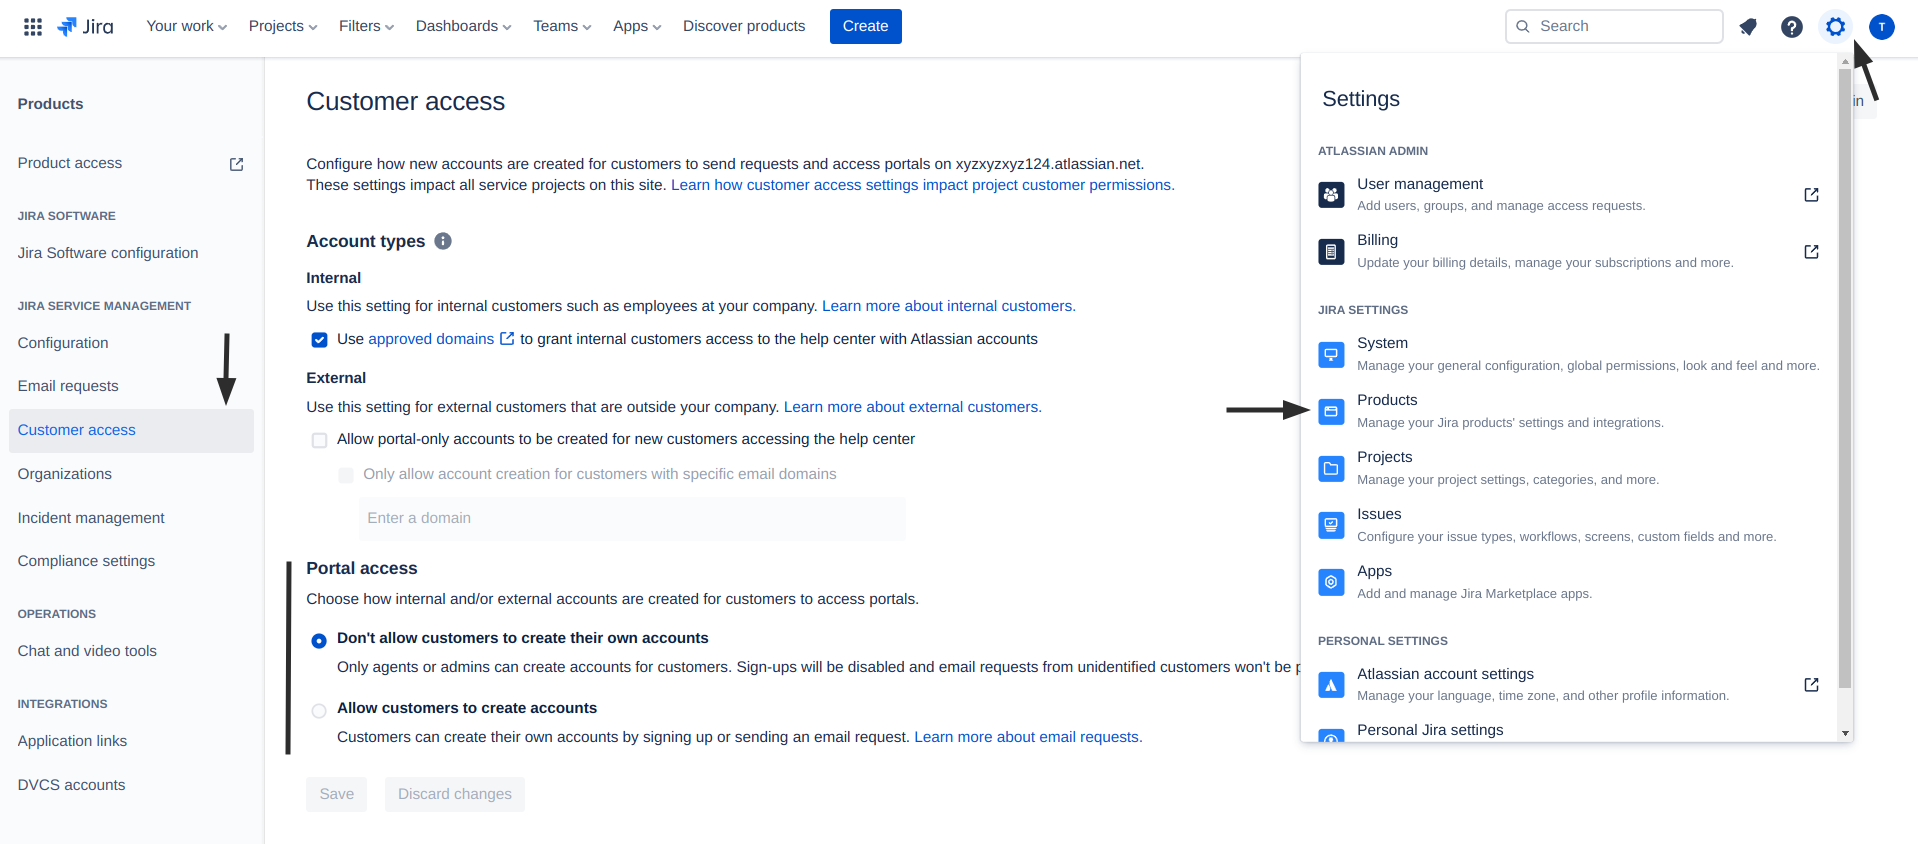
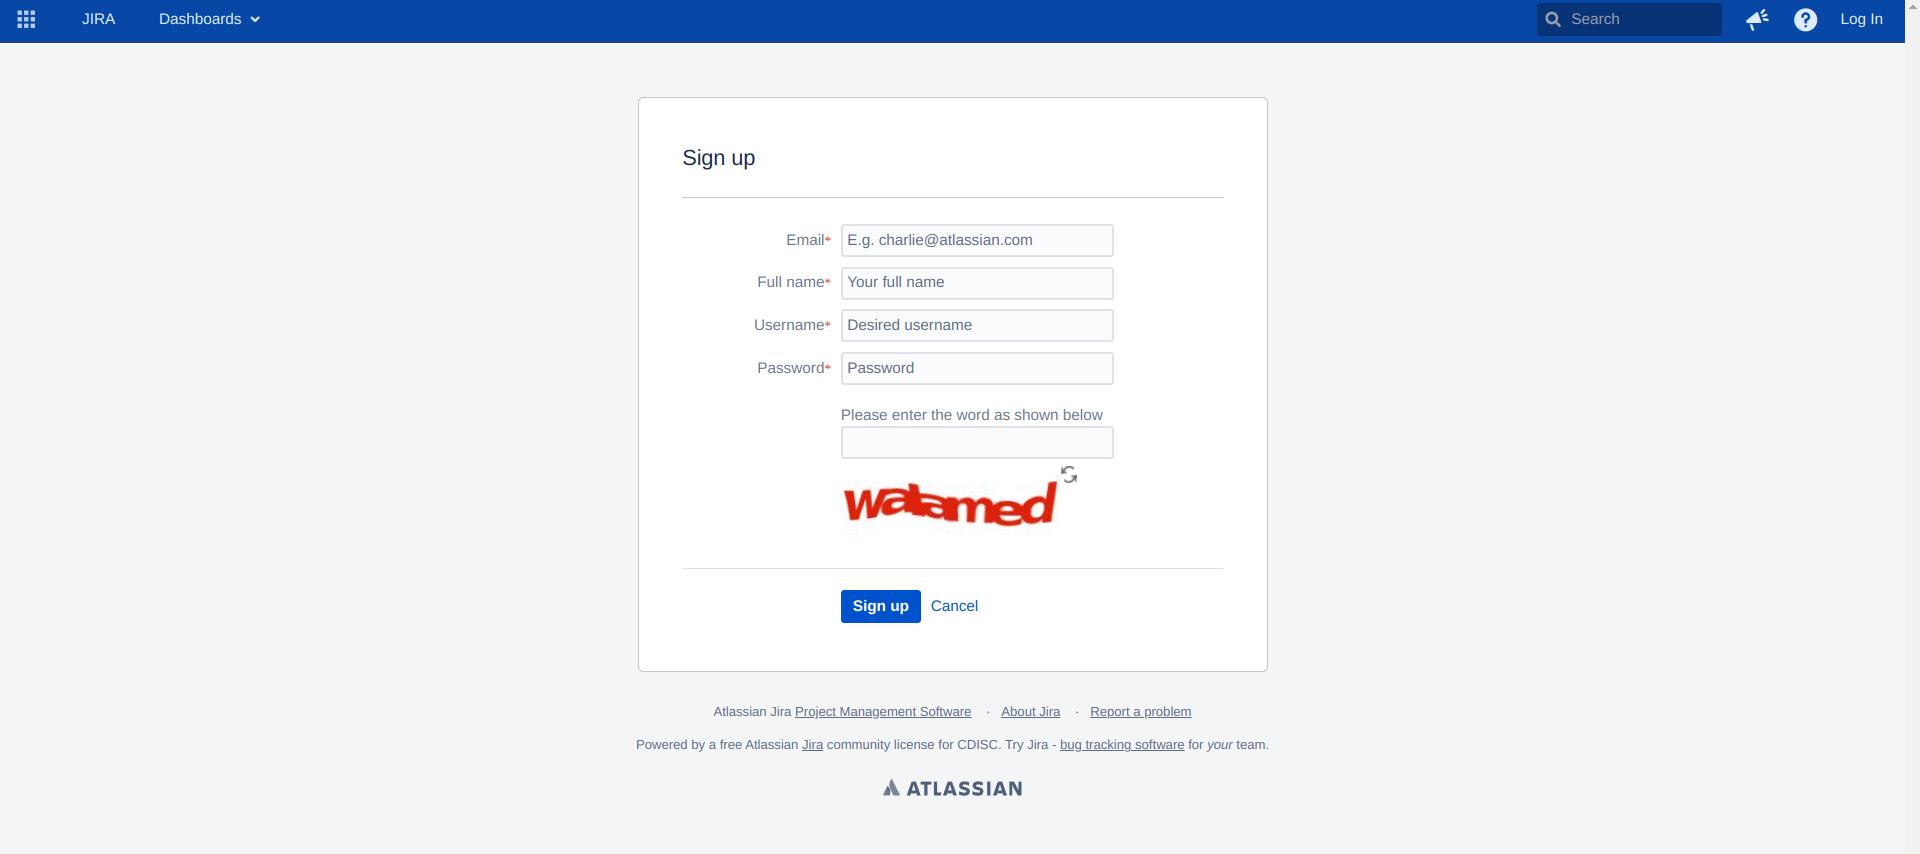
Added additional information + images to existing services

diff --git a/services/atlassian-jira/open-user-registration.md b/services/atlassian-jira/open-user-registration.md
@@ -12,6 +12,8 @@ You can cross-check if user registration is open for anyone by navigating to the
 /secure/Signup!default.jspa
 ```
 
+<figure><img src="../../.gitbook/assets/atlassian/jira/4.png" alt=""><figcaption></figcaption></figure>
+
 #### Remediation:
 
 Make sure to set the proper setting for new signups. One way to do so is:
@@ -23,7 +25,7 @@ Make sure to set the proper setting for new signups. One way to do so is:
 5. Scroll down to **Portal access** and select **Don't allow customers to create their own accounts**
 6. Save your settings
 
-<figure><img src="../../.gitbook/assets/atlassian/jira/4.png" alt=""><figcaption></figcaption></figure>
+<figure><img src="../../.gitbook/assets/atlassian/jira/5.png" alt=""><figcaption></figcaption></figure>
 
 #### Potential Impact:
 

diff --git a/services/jenkins/open-signups.md b/services/jenkins/open-signups.md
@@ -6,10 +6,11 @@ In case signups are not turned off, any user can create an account on the Jenkin
 
 #### Testing:
 
-Navigate to the following route and check if signups are enabled:
+Navigate to one of the following app routes and check if signups are enabled:
 
 ```
 /signup
+/jenkins/signup
 ```
 
 #### Remediation:
